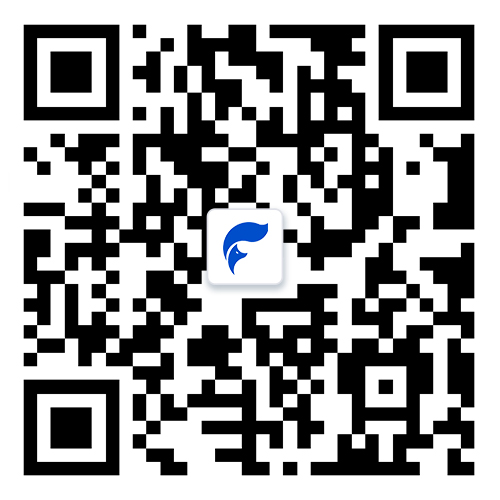
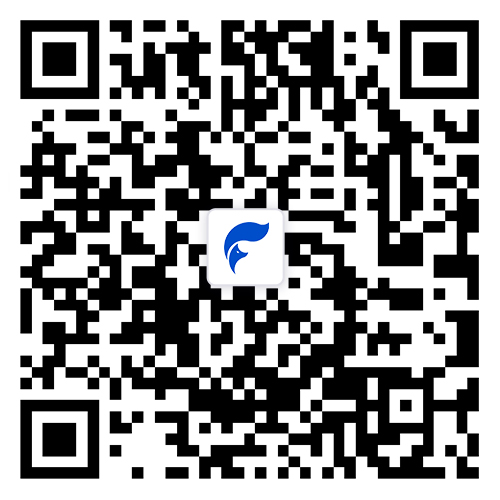
FIX:add web wallet entry & foxwallet invite code

diff --git a/components/shared/navigation-bar.vue b/components/shared/navigation-bar.vue
@@ -60,6 +60,9 @@
         <nuxt-link :to="localePath('/wiki/0')">
           <el-dropdown-item>{{ $t('nav.resources.subMenus.1') }}</el-dropdown-item>
         </nuxt-link>
+        <a href="https://wallet.filfox.info" target="_blank">
+          <el-dropdown-item>{{ $t('nav.resources.subMenus.2') }}</el-dropdown-item>
+        </a>
       </el-dropdown-menu>
     </el-dropdown>
 
@@ -82,12 +85,12 @@
       </div>
       <div class="p-2">
         <div class="flex flex-row items-center">
-          <img v-if="$i18n.locale === 'zh'" src="~/assets/img/download/fox-wallet-web-zh.png" alt="foxwallet download" class="w-24 border border-dashed border-gray-500" draggable="false">
-          <img v-else src="~/assets/img/download/fox-wallet-web-en.png" alt="foxwallet" class="w-24 border border-dashed border-gray-500" draggable="false">
+          <img v-if="$i18n.locale === 'zh'" src="~/assets/img/download/fox-wallet-web-zh.jpg" alt="foxwallet download" class="w-24 border border-dashed border-gray-500" draggable="false">
+          <img v-else src="~/assets/img/download/fox-wallet-web-en.jpg" alt="foxwallet" class="w-24 border border-dashed border-gray-500" draggable="false">
           <div class="flex-1 flex items-center justify-between flex-col ml-2">
             <a
               class="block cursor-pointer primary-button rounded-md text-xs text-white w-24 text-center py-1 hover:opacity-75"
-              :href="$i18n.locale === 'zh'? 'https://foxwallet.com/download/zh' : 'https://foxwallet.com/download/en'"
+              :href="$i18n.locale === 'zh'? 'https://foxwallet.com/download/zh?invite=JVvUytv69E' : 'https://foxwallet.com/download/en?invite=JVvUytv69E'"
               target="_blank"
             >
               <i class="el-icon-download mr-1"></i>
@@ -95,7 +98,7 @@
             </a>
             <a
               class="block cursor-pointer primary-button rounded-md text-xs text-white w-24 text-center py-1 mt-4 hover:opacity-75"
-              :href="$i18n.locale === 'zh'? 'https://foxwallet.com/zh' : 'https://foxwallet.com/en'"
+              :href="$i18n.locale === 'zh'? 'https://foxwallet.com/zh?invite=JVvUytv69E' : 'https://foxwallet.com/en?invite=JVvUytv69E'"
               target="_blank"
             >
               <i class="el-icon-monitor mr-1"></i>

diff --git a/components/shared/page-footer.vue b/components/shared/page-footer.vue
@@ -26,11 +26,11 @@
               <img src="~/assets/img/wechat/group.png" class="h-20 mx-auto bg-white p-1">
             </div>
             <div class="p-1 rounded mr-4">
-              <a class="block text-xs text-center text-white mb-2 hover:text-main" :href="$i18n.locale === 'zh'? 'https://foxwallet.com/zh' : 'https://foxwallet.com/en'" target="_blank">
+              <a class="block text-xs text-center text-white mb-2 hover:text-main" :href="$i18n.locale === 'zh'? 'https://foxwallet.com/zh?invite=JVvUytv69E' : 'https://foxwallet.com/en?invite=JVvUytv69E'" target="_blank">
                 {{ $t("nav.app.download") }}
               </a>
-              <img v-if="$i18n.locale === 'zh'" src="~/assets/img/download/fox-wallet-web-zh.png" alt="foxwallet download" class="h-20 mx-auto bg-white p-1" draggable="false">
-              <img v-else src="~/assets/img/download/fox-wallet-web-en.png" alt="foxwallet" class="h-20 mx-auto bg-white p-1" draggable="false">
+              <img v-if="$i18n.locale === 'zh'" src="~/assets/img/download/fox-wallet-web-zh.jpg" alt="foxwallet download" class="h-20 mx-auto bg-white p-1" draggable="false">
+              <img v-else src="~/assets/img/download/fox-wallet-web-en.jpg" alt="foxwallet" class="h-20 mx-auto bg-white p-1" draggable="false">
             </div>
           </div>
           <div class="items-center flex mt-4 xl:mt-0 -ml-4 xl:ml-0">

diff --git a/components/shared/download-affix.vue b/components/shared/download-affix.vue
@@ -11,8 +11,8 @@
         {{ $t('nav.app.description') }}
       </div>
       <div class="mt-1 flex justify-between">
-        <img v-if="$i18n.locale === 'zh'" src="~/assets/img/download/fox-wallet-web-zh.png" alt="foxwallet download" class="w-20 border border-dashed border-gray-500" draggable="false">
-        <img v-else src="~/assets/img/download/fox-wallet-web-en.png" alt="foxwallet" class="w-20 border border-dashed border-gray-500" draggable="false">
+        <img v-if="$i18n.locale === 'zh'" src="~/assets/img/download/fox-wallet-web-zh.jpg" alt="foxwallet download" class="w-20 border border-dashed border-gray-500" draggable="false">
+        <img v-else src="~/assets/img/download/fox-wallet-web-en.jpg" alt="foxwallet" class="w-20 border border-dashed border-gray-500" draggable="false">
         <div class="w-40 flex flex-wrap">
           <a class="bg-black text-white py-2 rounded-md ml-2 text-xs flex items-center justify-center w-16 hover:opacity-75 cursor-pointer" @click="download('ios')">
             <img src="@/assets/img/download/ios.svg" class="mr-1">

diff --git a/components/address/multisig-address-detail.vue b/components/address/multisig-address-detail.vue
@@ -11,7 +11,7 @@
         {{ $t('detail.address.normal.headers.overview') }}
       </div>
 
-      <a target="_blank" :href="$i18n.locale === 'zh'? 'https://foxwallet.com/zh' : 'https://foxwallet.com/en'" class="inline-block h-48 absolute right-0">
+      <a target="_blank" :href="$i18n.locale === 'zh'? 'https://foxwallet.com/zh?invite=JVvUytv69E' : 'https://foxwallet.com/en?invite=JVvUytv69E'" class="inline-block h-48 absolute right-0">
         <img src="@/assets/img/foxwallet/address-portal.png" draggable="false" class="border border-dashed border-gray-500 block h-full">
       </a>
 

diff --git a/components/miner/miner-app-guide.vue b/components/miner/miner-app-guide.vue
@@ -15,7 +15,7 @@
         <h3 class="text-black font-bold">
           {{ $t('detail.address.miner.app.title') }}
         </h3>
-        <a class="text-xs hover:opacity-75 hover:text-main" target="_blank" :href="$i18n.locale == 'zh' ? 'https://foxwallet.com/zh':'https://foxwallet.com/en'">
+        <a class="text-xs hover:opacity-75 hover:text-main" target="_blank" :href="$i18n.locale == 'zh' ? 'https://foxwallet.com/zh?invite=JVvUytv69E':'https://foxwallet.com/en?invite=JVvUytv69E'">
           {{ $t('detail.address.miner.app.download') }}
         </a>
       </div>

diff --git a/filecoin/banner.config.js b/filecoin/banner.config.js
@@ -1,6 +1,6 @@
 export const enBanners = [
   {
-    url: 'https://foxwallet.com/en',
+    url: 'https://foxwallet.com/en?invite=JVvUytv69E',
     img: require('~/assets/img/home/banner-en-1.png'),
     mobileImg: require('~/assets/img/home/banner-en-mobile-1.png')
   }
@@ -8,7 +8,7 @@ export const enBanners = [
 
 export const zhBanners = [
   {
-    url: 'https://foxwallet.com/zh',
+    url: 'https://foxwallet.com/zh?invite=JVvUytv69E',
     img: require('~/assets/img/home/banner-zh-1.png'),
     mobileImg: require('~/assets/img/home/banner-zh-mobile-1.png')
   }

diff --git a/components/address/address-detail.vue b/components/address/address-detail.vue
@@ -118,7 +118,7 @@
           </dd>
         </dl>
       </div>
-      <a target="_blank" :href="$i18n.locale === 'zh'? 'https://foxwallet.com/zh' : 'https://foxwallet.com/en'" class="inline-block h-68">
+      <a target="_blank" :href="$i18n.locale === 'zh'? 'https://foxwallet.com/zh?invite=JVvUytv69E' : 'https://foxwallet.com/en?invite=JVvUytv69E'" class="inline-block h-68">
         <img src="@/assets/img/foxwallet/address-portal.png" draggable="false" class="border border-dashed border-gray-500 block h-full">
       </a>
     </div>

diff --git a/components/shared/download-app-button.vue b/components/shared/download-app-button.vue
@@ -9,7 +9,7 @@ let CallApp = null
 export default {
   data() {
     return {
-      downloadWebsite: this.$i18n.locale === 'zh' ? 'https://foxwallet.com/download/zh' : 'https://foxwallet.com/download/en'
+      downloadWebsite: this.$i18n.locale === 'zh' ? 'https://foxwallet.com/download/zh?invite=JVvUytv69E' : 'https://foxwallet.com/download/en?invite=JVvUytv69E'
     }
   },
   mounted() {

diff --git a/components/shared/navigation-bar-mobile.vue b/components/shared/navigation-bar-mobile.vue
@@ -44,6 +44,9 @@
           <nuxt-link :to="localePath('/wiki/0')" class="link" @click.native="hideIfNeeded">
             {{ $t('nav.resources.subMenus.1') }}
           </nuxt-link>
+          <a href="https://wallet.filfox.info" target="_blank" class="link">
+            {{ $t('nav.resources.subMenus.2') }}
+          </a>
         </el-collapse-item>
       </el-collapse>
 

diff --git a/locales/zh.js b/locales/zh.js
@@ -39,7 +39,7 @@ export default {
     },
     resources: {
       title: '资源',
-      subMenus: ['常用工具', '知识库']
+      subMenus: ['常用工具', '知识库', '网页钱包']
     },
     searchPlaceHolder: '搜索区块/账户/地址/消息...',
     language: '语言',

diff --git a/locales/ko.js b/locales/ko.js
@@ -50,7 +50,8 @@ export default {
       title: '사용자 도구',
       subMenus: [
         '도구',
-        '정보'
+        '정보',
+        '웹 지갑'
       ]
     },
     searchPlaceHolder: '\b블록/계정/주소/소식 검색',

diff --git a/locales/en.js b/locales/en.js
@@ -51,7 +51,8 @@ export default {
       title: 'Resources',
       subMenus: [
         'Tools',
-        'Wiki'
+        'Wiki',
+        'Web Wallet'
       ]
     },
     searchPlaceHolder: 'Search for Block/Account/Address/Message...',
